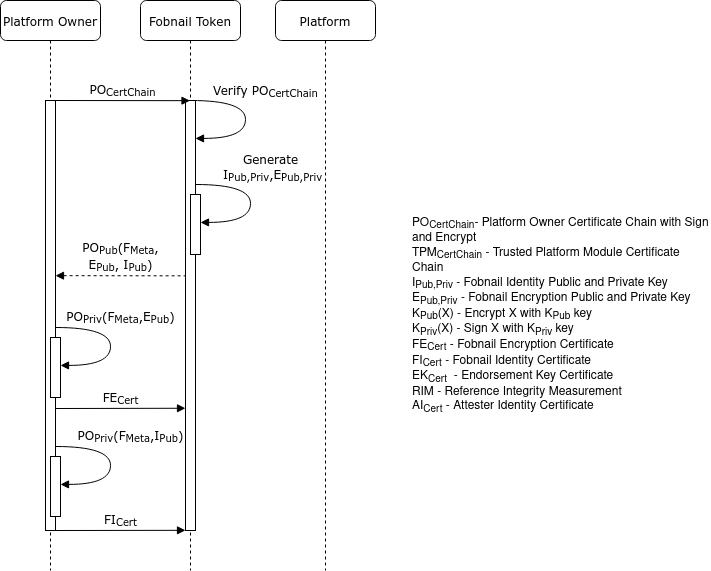
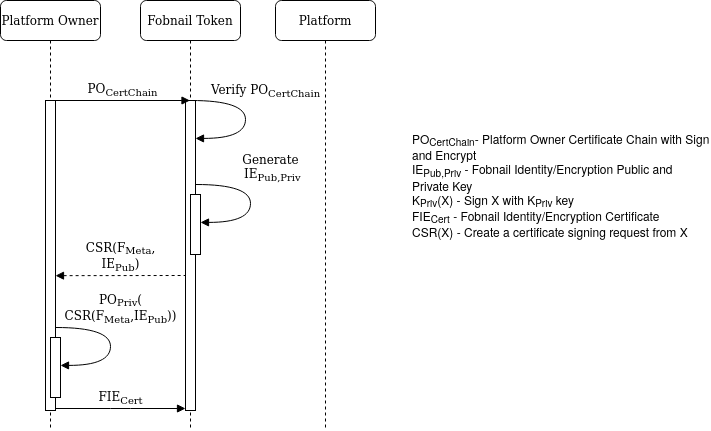
architecture.md: update Fobnail provisioning diagram and description

diff --git a/docs/architecture.md b/docs/architecture.md
@@ -46,18 +46,18 @@ be created by another entity; this is outside of scope of Fobnail architecture.
 The purpose of provisioning is to provide a controlled process for an
 individual to take ownership and configure the Fobnail. During
 the provisioning process the token should provide the following information
-to the provisioner:
+to the provisioner in the form of Certificate Signing Request (CSR):
 
-* A public key to use for generating an identity certificate
-* A public key to use for generating an encryption certificate
+* A public key to use for generating a certificate
 * Metadata about the token, e.g. model, serial number, etc
 
 A token will consider itself provisioned when it is in an unprovisioned state
-and a provisioner sends it the following information:
-
-* A certificate chain for the provisioner
-* An identity certificate containing the public key the token generated
-* An encryption certificate containing the public key the token generated
+and a provisioner sends it the certificate containing the public key the token
+generated. `keyUsage` field in that certificate depends on the actual use case,
+for example it may be used as an authentication certificate by platform when
+connecting with a server (e.g. SSH or mTLS). In that use case the platform
+doesn't know the private key, Fobnail Token performs the initial encryption
+during handshake.
 
 Either during provisioning or post provisioning a provisioner may send the
 following information,
